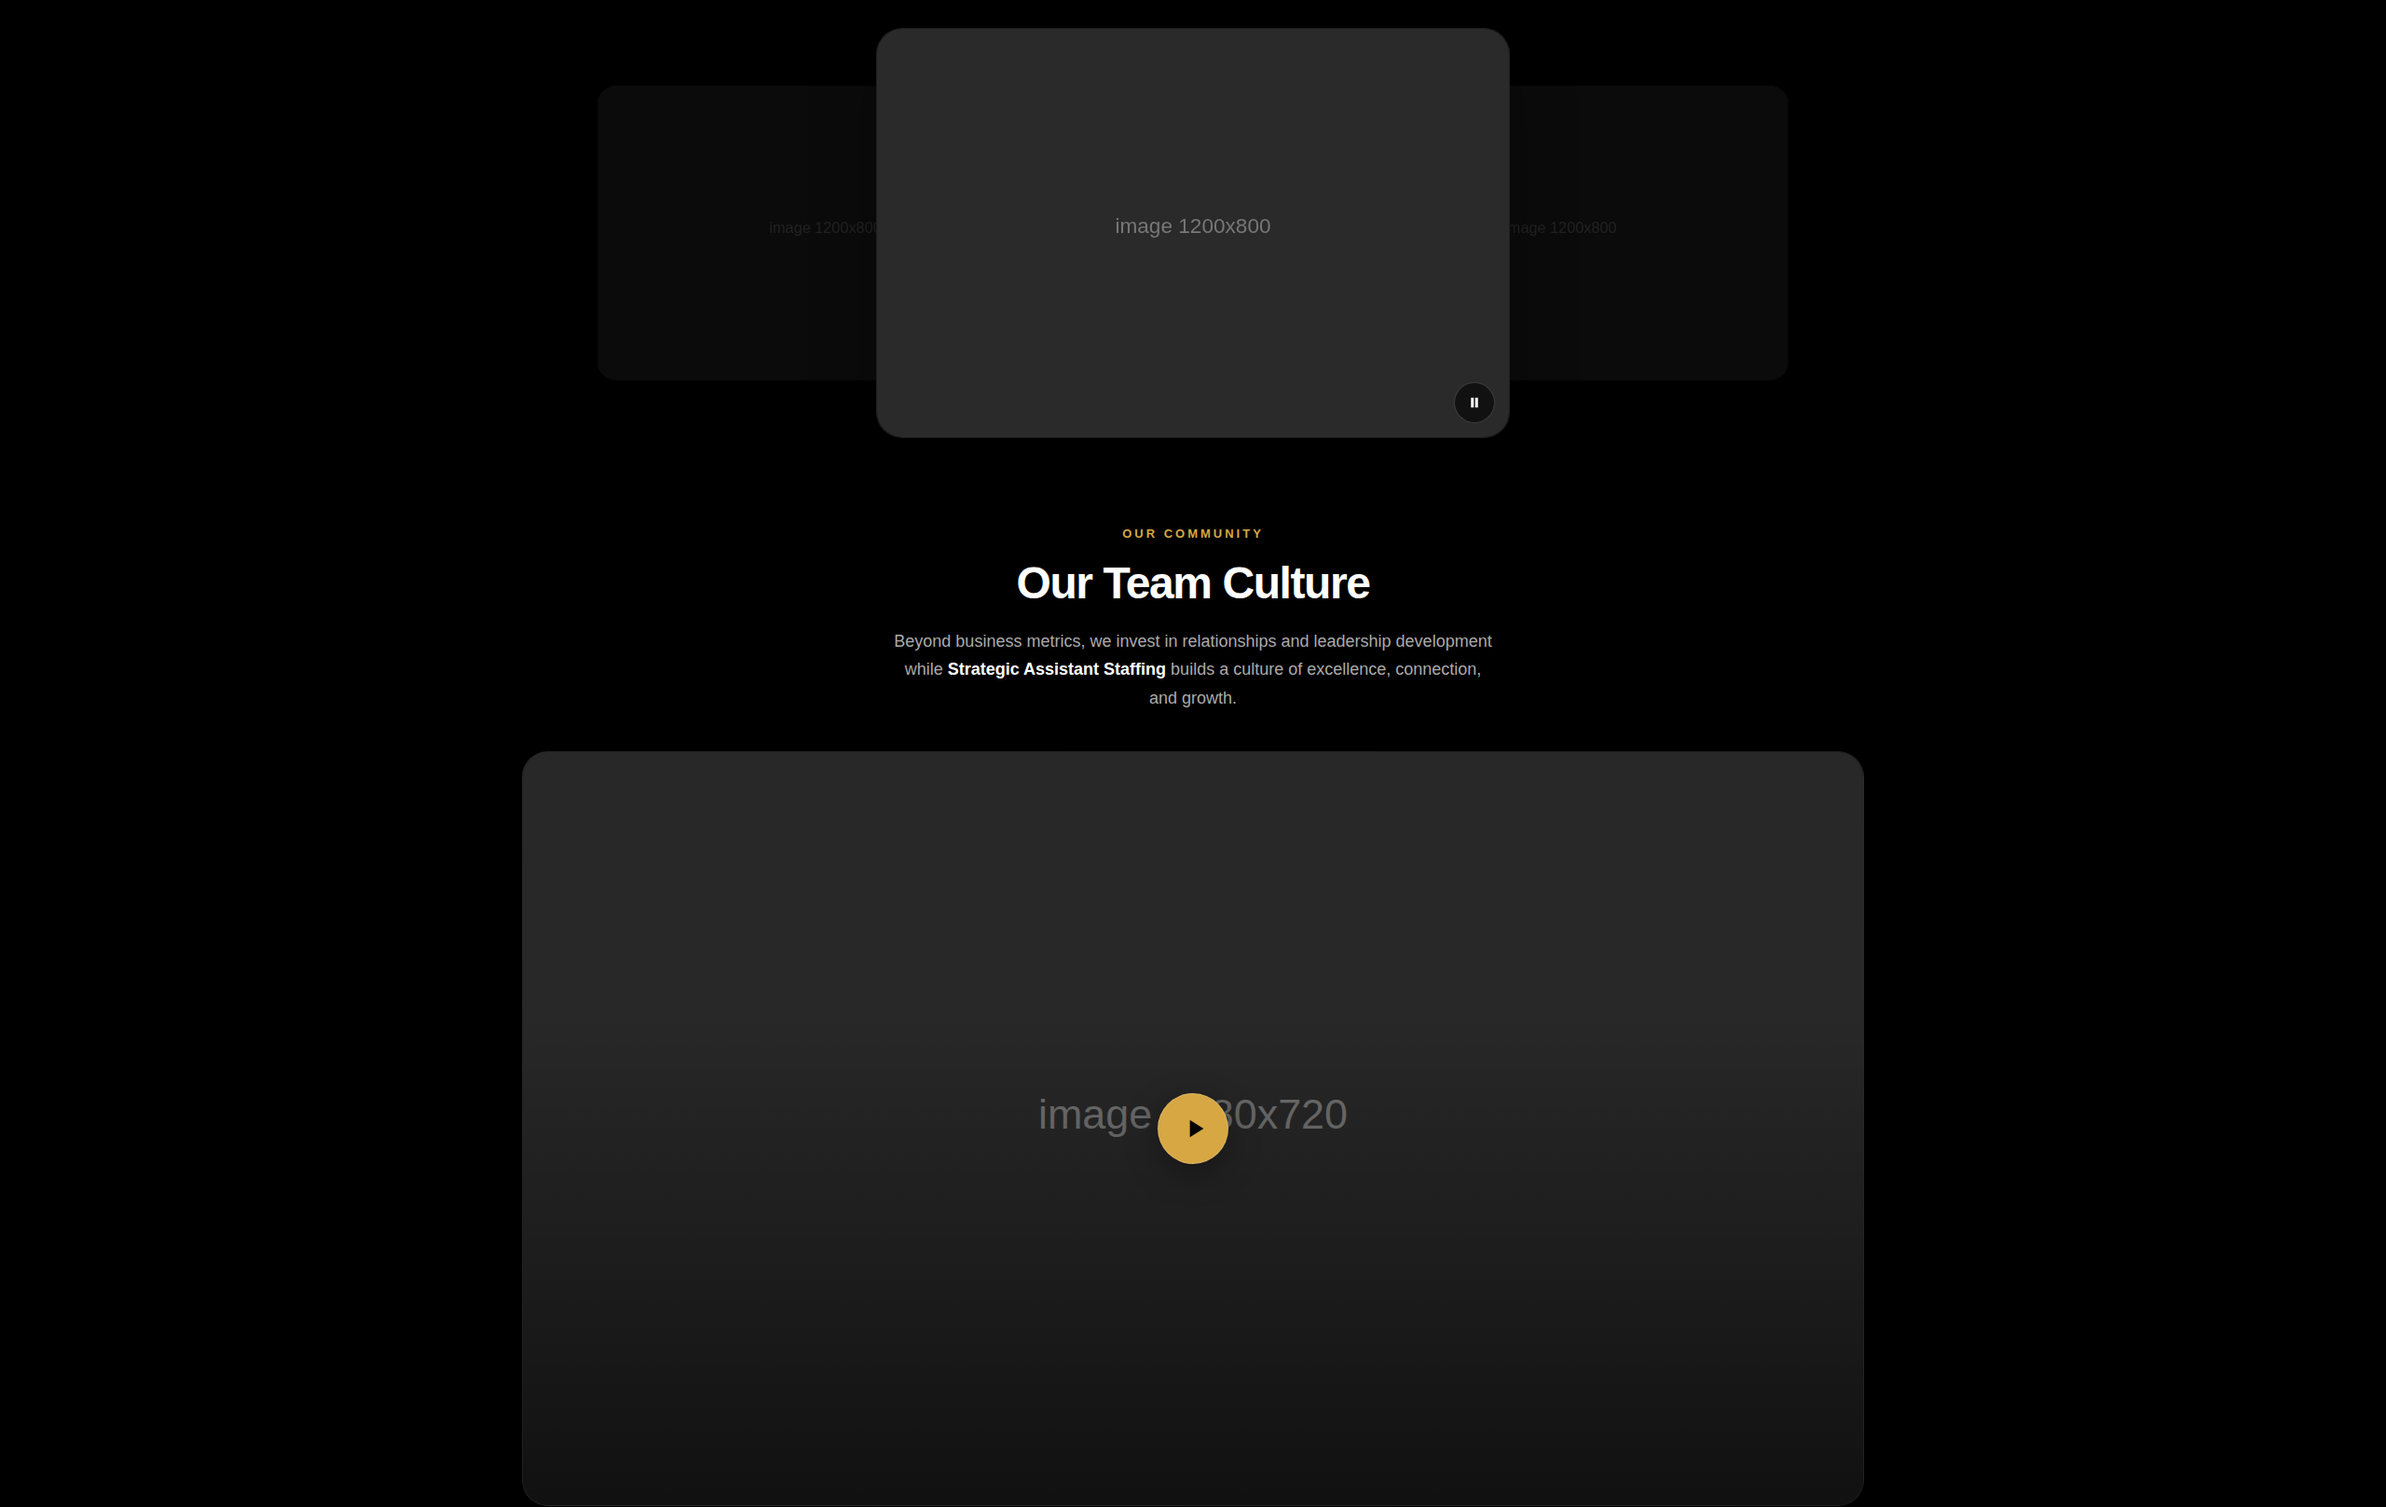
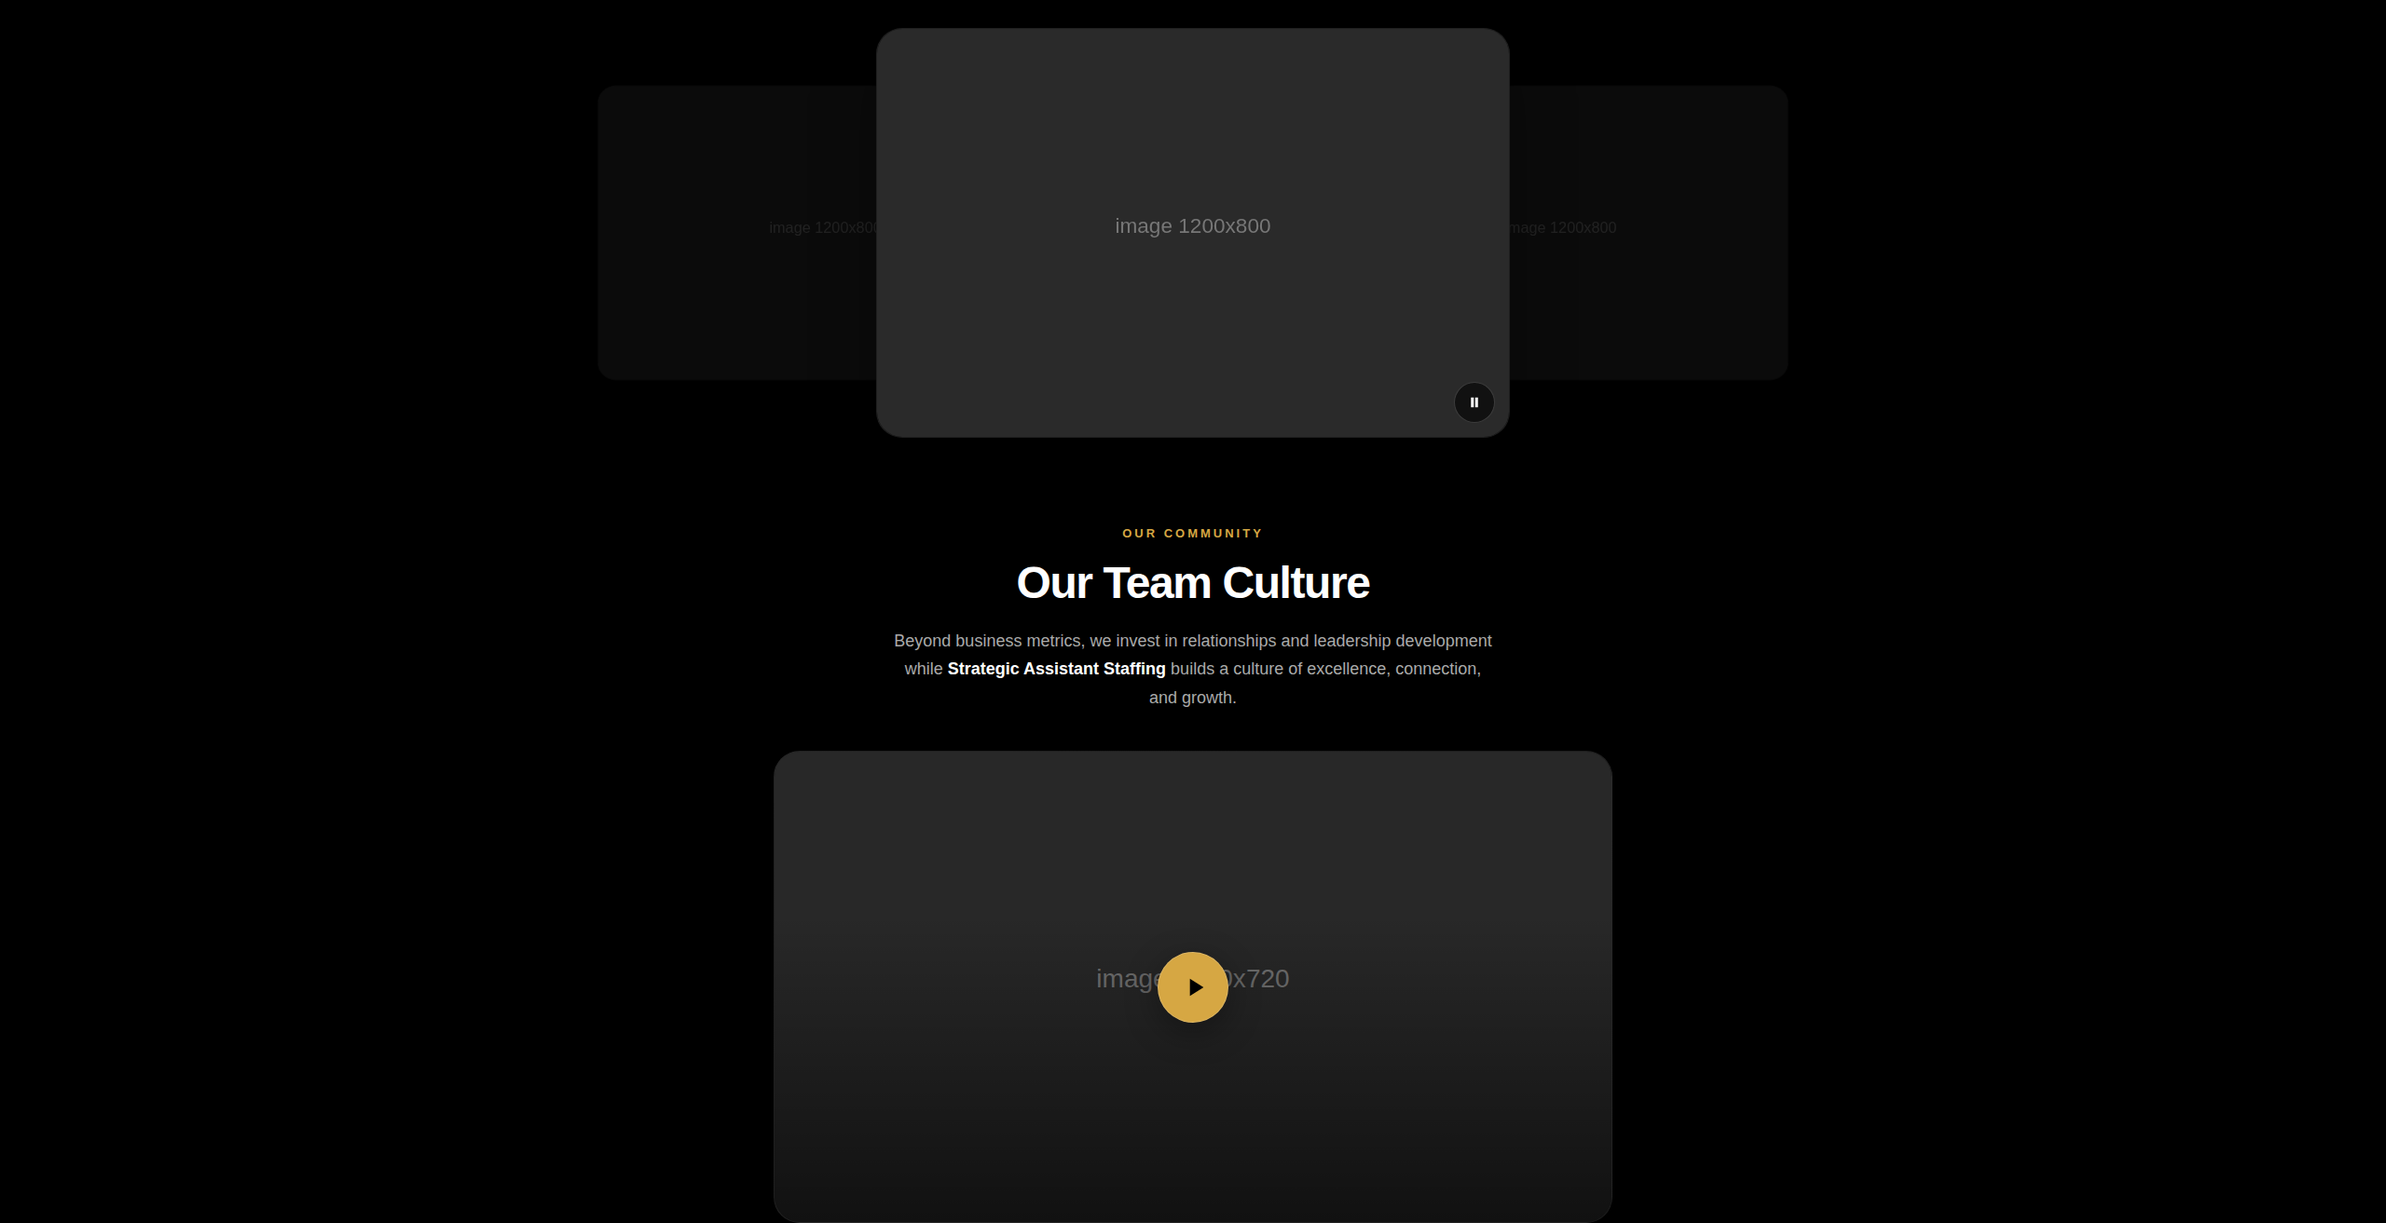
Culture: cap video card at 900px; note video exception in guide
Claude-Session: https://claude.ai/code/session_01EBtb9GCsShS6bxd8Mop7wv

diff --git a/output/sas-culture.html b/output/sas-culture.html
@@ -363,7 +363,8 @@
 ========================================================= */
 
 #sas-culture .sas-culture-video-wrap {
-    width: 100%;             /* full content width, same as Our Story / Why sections */
+    width: 100%;
+    max-width: 900px;        /* comfortable video size, centred */
     margin: 42px auto 0;
 }
 

diff --git a/SAS-DESIGN-GUIDE.md b/SAS-DESIGN-GUIDE.md
@@ -118,7 +118,8 @@ Grids use `repeat(N, minmax(0, 1fr))` and every grid/flex child gets `min-width:
 **Content width rule:** cards, photos, stats bars, CTA banners and grids fill the
 FULL container width (up to `--sas-max` 1440px) so every section lines up with the
 header/footer — do NOT cap them at 1200px. Only text is narrower: section headers
-~760–900px centred, paragraphs `max-width: 65ch`. Tall photos get a `max-height`
+~760–900px centred, paragraphs `max-width: 65ch`. Exception: a single video
+card/thumbnail is capped at `max-width: 900px` and centred (full width is too big). Tall photos get a `max-height`
 (e.g. 720px) with `object-fit: cover` so they never fill more than a laptop screen.
 
 ---
